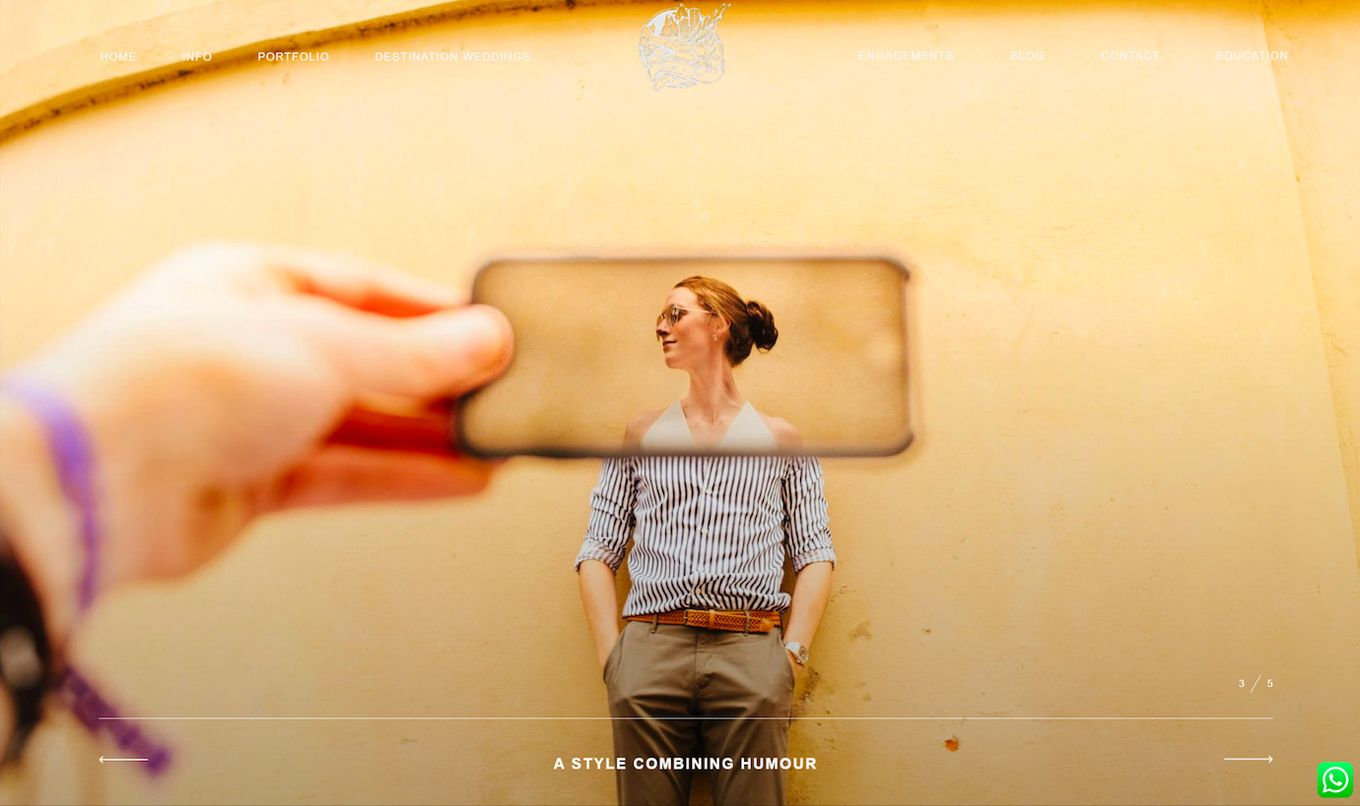
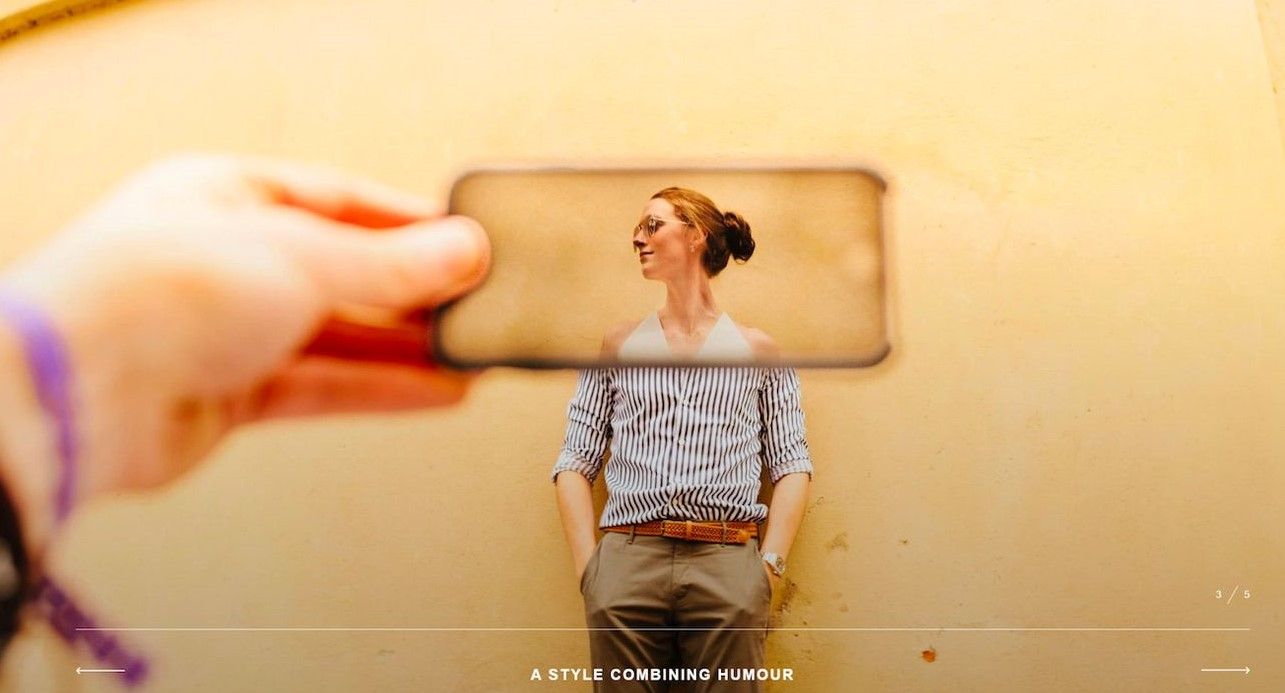
Justified all of the main items in the project page, and cropped some of the images

diff --git a/assets/css/style.css b/assets/css/style.css
@@ -10,9 +10,10 @@
 
 * {
   box-sizing: border-box;
-}
+  font-family: Arial, Helvetica, sans-serif;
+} 
 
-header {
+.top-header {
   display: flex;
   padding: 0px;
   text-align: center;
@@ -23,7 +24,7 @@ header {
   margin: auto;
 }
 
-h1 {
+header h1 {
   font-family: 'Gill Sans', 'Gill Sans MT', Calibri, 'Trebuchet MS', sans-serif;
   font-size: 45pt;
   position: absolute;
@@ -32,7 +33,6 @@ h1 {
 }
 
 header img {
-
   border-radius: 40%;
   width: auto;
   height: 90%;
@@ -45,10 +45,11 @@ nav {
   display: flex;
   /* rgb(58, 57, 57); */
   background-color: black;
-  position: absolute;
-  right: 0px;
-  top: 15.3%;
-  right: 1%
+  position: relative;
+  width: auto;
+  height: 20px;
+  top: 80%;
+  left: 60%
 }
 
 nav a {
@@ -60,6 +61,170 @@ nav a {
   padding: 14px 20px;
   text-decoration: none;
   text-align: center;
+}
+
+main {
+  display: flex;
+  flex-wrap: wrap;
+  flex-grow: 1;
+}
+
+aside {
+  /* flex: 1; */
+  font-weight: bold;
+  font-size: 14pt;
+  background-color: #b9c6ae;
+  /* padding: 5px; */
+  text-align: right;
+  width: 130px;
+}
+
+aside div {
+  justify-content: right;
+}
+
+#about{
+  border-right-width: 2px;
+  border-right-style: solid;
+  background-color: #b9c6ae;
+  /* border-top-width: 2px;
+  border-top-style: solid; */
+  padding-right: 10px;
+  margin-right: 0px;
+  height: 10%;
+
+}
+
+#portfolio{
+  border-right-width: 2px;
+  border-right-style: solid;
+  background-color: #b9c6ae;
+  /* border-bottom-width: 2px; */
+  /* border-bottom-style: solid; */
+  padding-right: 10px;
+  margin-right: 0px;
+  height: 76.8%;
+
+}
+
+#contact{
+  border-right-width: 2px;
+  border-right-style: solid;
+  /* border-top-width: 2px;
+  border-top-style: solid; */
+  background-color: #b9c6ae;
+  padding-right: 10px;
+  margin-right: 0px;
+  height: 7%;
+}
+
+.portfolio {
+  display: flex;
+  flex-wrap: wrap;
+  flex: 4;
+  background-color: #fff;
+  justify-content: center;
+  
+}
+
+.about_me {
+  font-family: Arial, Helvetica, sans-serif;
+  font-size: 14pt;
+  /* border-bottom-width: 1px;
+  border-bottom-style: dashed; */
+  margin: 0px;
+  padding: 10px;
+  /* border-left-width: 2px;
+  border-left-style: solid; */
+}
+.divider{
+  display: block;
+  justify-content: center;
+  position: relative;
+  left:40%;
+  
+}
+.dot {
+  height: 15px;
+  width: 15px;
+  padding: 2px;
+  margin: 5px;
+  background-color: #bbb;
+  border-radius: 50%;
+  display: inline-block;
+  justify-self: center;
+}
+
+/* .portfolio section{
+  border-left-width: 2px;
+  border-left-style: solid;
+} */
+
+/* Added border-radius to match the card */
+.big-card{
+  padding-top: 20px;
+}
+.big-card header {
+  /* border-radius: 50px 50px 0px 0px; */
+  background-color:  #b9c6ae;
+  color: black;
+  font-family: Arial, Helvetica, sans-serif;
+  
+  position: relative;
+  top: 300px;
+  padding: 5px;
+  width: 200px;
+
+  border-style: solid;
+  border-width: 1px;
+  border-color: black;
+  /* margin-left: 5px; */
+  
+}
+
+
+.big-card img {
+  border-style: solid;
+  border-width: 1px;
+  height: 350px;
+  width: auto;
+}
+
+/* Added rotation, box-shadow, border-radius */
+.card {
+  /* flex: 0 0 100px; */
+  margin: 15px;
+}
+
+/* Added border-radius to match the card */
+.card header {
+  /* border-radius: 50px 50px 0px 0px;
+  padding: 20px; */
+  background-color:  #b9c6ae;
+  color: black;
+  border-style: solid;
+  border-width: 1px;
+  border-color: black;
+  position: relative;
+  top: 170px;
+}
+
+
+.card img {
+  border-style: solid;
+  border-width: 1px;
+  height: auto;
+  width: 300px;
+}
+
+footer {
+  width: 100%;
+  bottom: 0;
+  padding: 20px;
+  text-align: center;
+  background: #13293d;
+  color: #fff;
+  margin-top: auto;
 }
 
 @media screen and (max-min: 968px) {

diff --git a/index.html b/index.html
@@ -7,7 +7,7 @@
     <link rel="stylesheet" type="text/css" href="./assets/css/style.css" />
   </head>
   <body>
-    <header>
+    <header class="top-header">
       <!-- Avatar -->
       <img src="./assets/images/avatar-2-update.PNG" class="avatar">
       
@@ -15,38 +15,74 @@
       
       <!-- Navbar -->
       <nav>
-        <a href="#">About Me</a>
-        <a href="#">Portfolio</a>
-        <a href="#">Contact Info</a>
+        <a href="#about">About Me</a>
+        <a href="#portfolio">Portfolio</a>
+        <a href="#contact">Contact Info</a>
       </nav>
     </header>
 
     
-    <main>
+     <!-- Body -->
+     <main>
+      <!-- Sidebar -->
+      <aside>
+        <div id="about"><p>About Me</p></div>
+        <div id="portfolio"><p>Portfolio</p></div>
+        <div id="contact"><p>Contact Info</p></div>
+      </aside>
       
+      <!-- Product Cards -->
+      <div class="portfolio">
+        <section class="about_me">
+          <p>I am an aspiring web designer from Detroit.  
+            The blending of culture, music, and technology are areas of focus for me.
+            My goal is to take a customer's ideas and transform them into something that inspires, improving the human condition.
+          </p>
+        </section>
+        <section class="divider">
+          <span class="dot"></span><span class="dot"></span><span class="dot"></span><span class="dot"></span>
+        </section>
+        <section class="big-card">
+          <header>   Designing Web Portfolios</header>
+          <img
+            src="./assets/images/portfolio-3.jpeg"
+            alt="Photo of someone taking a photo with a cell phone"
+          />
+        </section>
+        <section class="card">
+          <header>Create Photobooks</header>
+          <img 
+            src="./assets/images/portfolio-1.jpg" 
+            alt="Photo book with images of people with 3d glasses" 
+          />
+        </section>
+        <section class="card">
+          <header>Paintings & Sketches</header>
+          <img 
+            src="./assets/images/portfolio-2.jpg" 
+            alt="Recreated paintings from different eras" />
+        </section>
+        <section class="card">
+          <header>React J Experience</header>
+          <img
+            src="./assets/images/react-j.gif"
+            alt="4 wooden spoons with different seasonings"
+            id="reactj"
+          />
+        </section> 
+        <footer>
+          <h3>
+            ph: 313.123.4567   ---       email: doom@somemail.com    ---      address: 123 J St. Det, MI
 
-      <section>
-        <div>
-
-        
-        </div>
-      </section>
-
-      <section>
-        <div>
+          </h3>
+            
           
-        </div>
-      </section>
-
-      <section>
-        <div >
-          
-        </div>
-      </section>
+        </footer>
+      </div>
+    
     </main>
 
-    <footer>
-      
-    </footer>
+    <!-- Footer -->
+    
   </body>
 </html>

diff --git a/README.md b/README.md
@@ -1,4 +1,4 @@
-# My Project Portfolio
+# Challenge 2
 
 ## Description
 
